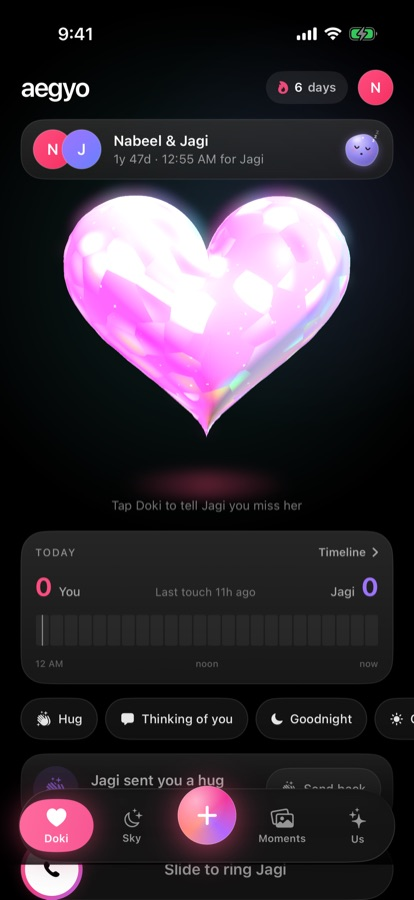
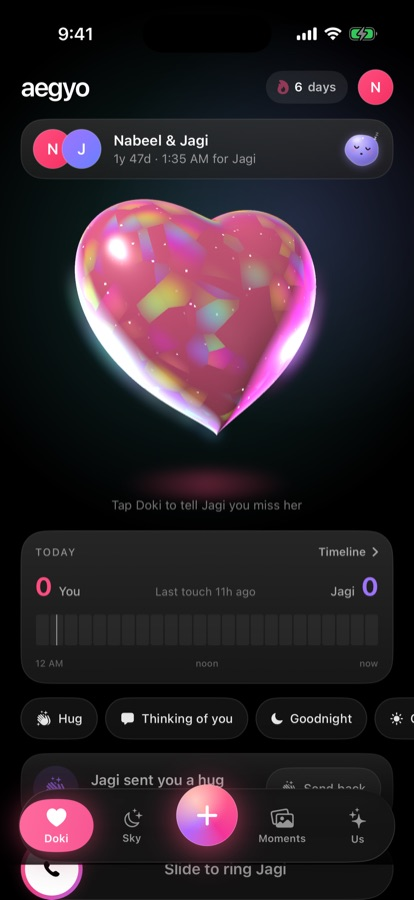
Doki: real 3D heart mesh from the implicit heart surface
Replaces the inflated 2D outline with the classic implicit heart
(x² + 9/4·y² + z² − 1)³ − x²z³ − 9/80·y²z³ = 0, ray-cast onto a sphere grid
so the mesh is seamless, with normals from the analytic gradient for
perfectly smooth shading. Full rounded lobes, a deep cleft and a soft tip,
slightly wider than tall and a touch slimmer in depth.

diff --git a/Aegyo/Features/Components/Heart3D.swift b/Aegyo/Features/Components/Heart3D.swift
@@ -131,7 +131,7 @@ struct Heart3DView: UIViewRepresentable {
             cam.bloomThreshold = 0.92
             cam.bloomBlurRadius = 18
             cam.wantsExposureAdaptation = false
-            cam.exposureOffset = -0.35
+            cam.exposureOffset = -0.2
             cam.vignettingIntensity = 0
             let camNode = SCNNode()
             camNode.camera = cam
@@ -407,94 +407,77 @@ struct Heart3DView: UIViewRepresentable {
 
         deinit { observers.forEach(NotificationCenter.default.removeObserver) }
 
-        /// An "inflated" heart: the classic heart curve, puffed up like a balloon.
-        /// Height comes from distance to the edge (smooth, no creases), then gets relaxed.
+        /// A real 3D heart: the classic implicit heart surface
+        /// (x² + 9/4·y² + z² − 1)³ − x²z³ − 9/80·y²z³ = 0, ray-cast from the centre onto a sphere grid so the
+        /// mesh has no seams, with normals from the analytic gradient so the shading is perfectly smooth.
+        /// Full, rounded lobes, a deep cleft and a soft tip, puffed a little in depth so it reads as a plush gem.
         static func heartGeometry() -> SCNGeometry {
-            let M = 200, N = 34
-            let depth: Float = 0.66
-            func boundary(_ t: Double) -> SIMD2<Float> {
-                let x = 16 * pow(sin(t), 3)
-                let y = 13 * cos(t) - 5 * cos(2 * t) - 2 * cos(3 * t) - cos(4 * t)
-                return SIMD2(Float(x / 17), Float((y + 2.2) / 17))
-            }
-            let rim = (0..<600).map { boundary(Double($0) / 600 * 2 * .pi) }
-            let center = SIMD2<Float>(0, 0.02)
-            func ringS(_ i: Int) -> Float { Float(sin(Double(i) / Double(N) * .pi / 2)) }
+            let lat = 120, lon = 200
+            let plump: Float = 0.92          // depth multiplier (1 = the mathematical heart)
+            let squash: Float = 0.9          // vertical multiplier: a little wider than tall reads cuter
+            let targetWidth: Float = 1.92    // object-space width, matches the old mesh so the camera framing holds
 
-            // Balloon heights: solve a pressurised membrane (Δh = -1, h = 0 outside the heart)
-            // on a uniform square grid with SOR, then sample it. Smooth and crease-free.
-            let G = 140
-            let lo: Float = -1.1, span: Float = 2.2
-            func inside(_ p: SIMD2<Float>) -> Bool {
-                var c = false
-                var j = rim.count - 1
-                for i in 0..<rim.count {
-                    let a = rim[i], b = rim[j]
-                    if (a.y > p.y) != (b.y > p.y), p.x < (b.x - a.x) * (p.y - a.y) / (b.y - a.y) + a.x { c.toggle() }
-                    j = i
+            // f < 0 inside. Implicit space: x right, y depth, z up.
+            func f(_ p: SIMD3<Float>) -> Float {
+                let a = p.x * p.x + 2.25 * p.y * p.y + p.z * p.z - 1
+                return a * a * a - p.x * p.x * p.z * p.z * p.z - 0.1125 * p.y * p.y * p.z * p.z * p.z
+            }
+            func grad(_ p: SIMD3<Float>) -> SIMD3<Float> {
+                let a = p.x * p.x + 2.25 * p.y * p.y + p.z * p.z - 1
+                let a2 = 3 * a * a
+                let z2 = p.z * p.z, z3 = z2 * p.z
+                return SIMD3(a2 * 2 * p.x - 2 * p.x * z3,
+                             a2 * 4.5 * p.y - 0.225 * p.y * z3,
+                             a2 * 2 * p.z - 3 * p.x * p.x * z2 - 0.3375 * p.y * p.y * z2)
+            }
+            // The heart is star-shaped around a point a little below centre: every ray from there crosses once.
+            let origin = SIMD3<Float>(0, 0, -0.08)
+            func hit(_ d: SIMD3<Float>) -> Float {
+                var r: Float = 0.05
+                while r < 2.5, f(origin + d * r) < 0 { r += 0.04 }
+                var lo = r - 0.04, hi = r
+                for _ in 0..<22 {
+                    let mid = (lo + hi) / 2
+                    if f(origin + d * mid) < 0 { lo = mid } else { hi = mid }
                 }
-                return c
+                return (lo + hi) / 2
             }
-            var mask = [Bool](repeating: false, count: G * G)
-            for gy in 0..<G { for gx in 0..<G {
-                mask[gy * G + gx] = inside(SIMD2(lo + span * Float(gx) / Float(G - 1), lo + span * Float(gy) / Float(G - 1)))
-            } }
-            var field = [Float](repeating: 0, count: G * G)
-            let hstep = span / Float(G - 1)
-            let rhs = hstep * hstep
-            for _ in 0..<260 {
-                for gy in 1..<(G - 1) { for gx in 1..<(G - 1) {
-                    let k = gy * G + gx
-                    guard mask[k] else { continue }
-                    let avg = (field[k - 1] + field[k + 1] + field[k - G] + field[k + G] + rhs) / 4
-                    field[k] += 1.9 * (avg - field[k])
-                } }
-            }
-            func sample(_ p: SIMD2<Float>) -> Float {
-                let fx = (p.x - lo) / span * Float(G - 1), fy = (p.y - lo) / span * Float(G - 1)
-                let x0 = max(0, min(G - 2, Int(fx))), y0 = max(0, min(G - 2, Int(fy)))
-                let tx = fx - Float(x0), ty = fy - Float(y0)
-                let a = field[y0 * G + x0], b = field[y0 * G + x0 + 1], c = field[(y0 + 1) * G + x0], d = field[(y0 + 1) * G + x0 + 1]
-                return (a * (1 - tx) + b * tx) * (1 - ty) + (c * (1 - tx) + d * tx) * ty
-            }
-            let fmax = max(1e-6, field.max() ?? 1)
 
-            var xy: [SIMD2<Float>] = []
-            var h: [Float] = []
-            for i in 0...N {
-                for j in 0..<M {
-                    let b = boundary(Double(j) / Double(M) * 2 * .pi)
-                    let p = center + (b - center) * ringS(i)
-                    xy.append(p)
-                    h.append(i == N ? 0 : depth * powf(max(0, sample(p) / fmax), 0.5))
+            // Sphere grid: pole at the cleft (top) and at the tip (bottom), so rings follow the lobes.
+            var imp: [SIMD3<Float>] = []
+            var nrm: [SIMD3<Float>] = []
+            imp.reserveCapacity((lat + 1) * lon); nrm.reserveCapacity((lat + 1) * lon)
+            for i in 0...lat {
+                let phi = Float(i) / Float(lat) * .pi
+                for j in 0..<lon {
+                    let th = Float(j) / Float(lon) * 2 * .pi
+                    let d = SIMD3(sin(phi) * cos(th), sin(phi) * sin(th) / plump, cos(phi))
+                    let dn = simd_normalize(d)
+                    let p = origin + dn * hit(dn)
+                    imp.append(p)
+                    nrm.append(grad(p))
                 }
             }
 
-            var verts: [SIMD3<Float>] = []
-            for k in 0..<xy.count { verts.append(SIMD3(xy[k].x, xy[k].y, h[k])) }
-            for k in 0..<(N * M) { verts.append(SIMD3(xy[k].x, xy[k].y, -h[k])) }
+            // Implicit → object space: SceneKit y is up, z is depth. Centre and scale.
+            var minX: Float = .infinity, maxX: Float = -.infinity, minY: Float = .infinity, maxY: Float = -.infinity
+            for p in imp { minX = min(minX, p.x); maxX = max(maxX, p.x); minY = min(minY, p.z); maxY = max(maxY, p.z) }
+            let s = targetWidth / (maxX - minX)
+            let cy = (minY + maxY) / 2
+            let verts: [SIMD3<Float>] = imp.map { SIMD3($0.x * s, ($0.z - cy) * s * squash, $0.y * s * plump) }
+            // normals transform by the inverse transpose of the (diagonal) scale
+            let normals: [SIMD3<Float>] = nrm.map { simd_normalize(SIMD3($0.x / s, $0.z / (s * squash), $0.y / (s * plump))) }
 
-            func fi(_ i: Int, _ j: Int) -> Int32 { Int32(i * M + (j % M)) }
-            func bi(_ i: Int, _ j: Int) -> Int32 { i == N ? fi(N, j) : Int32((N + 1) * M + i * M + (j % M)) }
-
-            var tris: [(Int32, Int32, Int32, Bool)] = []
-            for i in 0..<N {
-                for j in 0..<M {
-                    tris.append((fi(i, j), fi(i + 1, j), fi(i + 1, j + 1), true))
-                    tris.append((fi(i, j), fi(i + 1, j + 1), fi(i, j + 1), true))
-                    tris.append((bi(i, j), bi(i + 1, j + 1), bi(i + 1, j), false))
-                    tris.append((bi(i, j), bi(i, j + 1), bi(i + 1, j + 1), false))
-                }
-            }
-            var normals = [SIMD3<Float>](repeating: .zero, count: verts.count)
+            func idx(_ i: Int, _ j: Int) -> Int32 { Int32(i * lon + (j % lon)) }
             var indices: [Int32] = []
-            for (a, b, c, front) in tris {
-                var n = simd_cross(verts[Int(b)] - verts[Int(a)], verts[Int(c)] - verts[Int(a)])
-                if (front && n.z < 0) || (!front && n.z > 0) { n = -n }
-                for k in [a, b, c] { normals[Int(k)] += n }
-                indices += [a, b, c]
+            indices.reserveCapacity(lat * lon * 6)
+            for i in 0..<lat {
+                for j in 0..<lon {
+                    // outward winding (counter-clockwise seen from outside)
+                    if i > 0 { indices += [idx(i, j), idx(i, j + 1), idx(i + 1, j)] }
+                    if i < lat - 1 { indices += [idx(i + 1, j), idx(i, j + 1), idx(i + 1, j + 1)] }
+                }
             }
-            normals = normals.map { simd_length($0) > 0 ? simd_normalize($0) : SIMD3(0, 0, 1) }
 
             let vSrc = SCNGeometrySource(vertices: verts.map { SCNVector3($0.x, $0.y, $0.z) })
             let nSrc = SCNGeometrySource(normals: normals.map { SCNVector3($0.x, $0.y, $0.z) })
